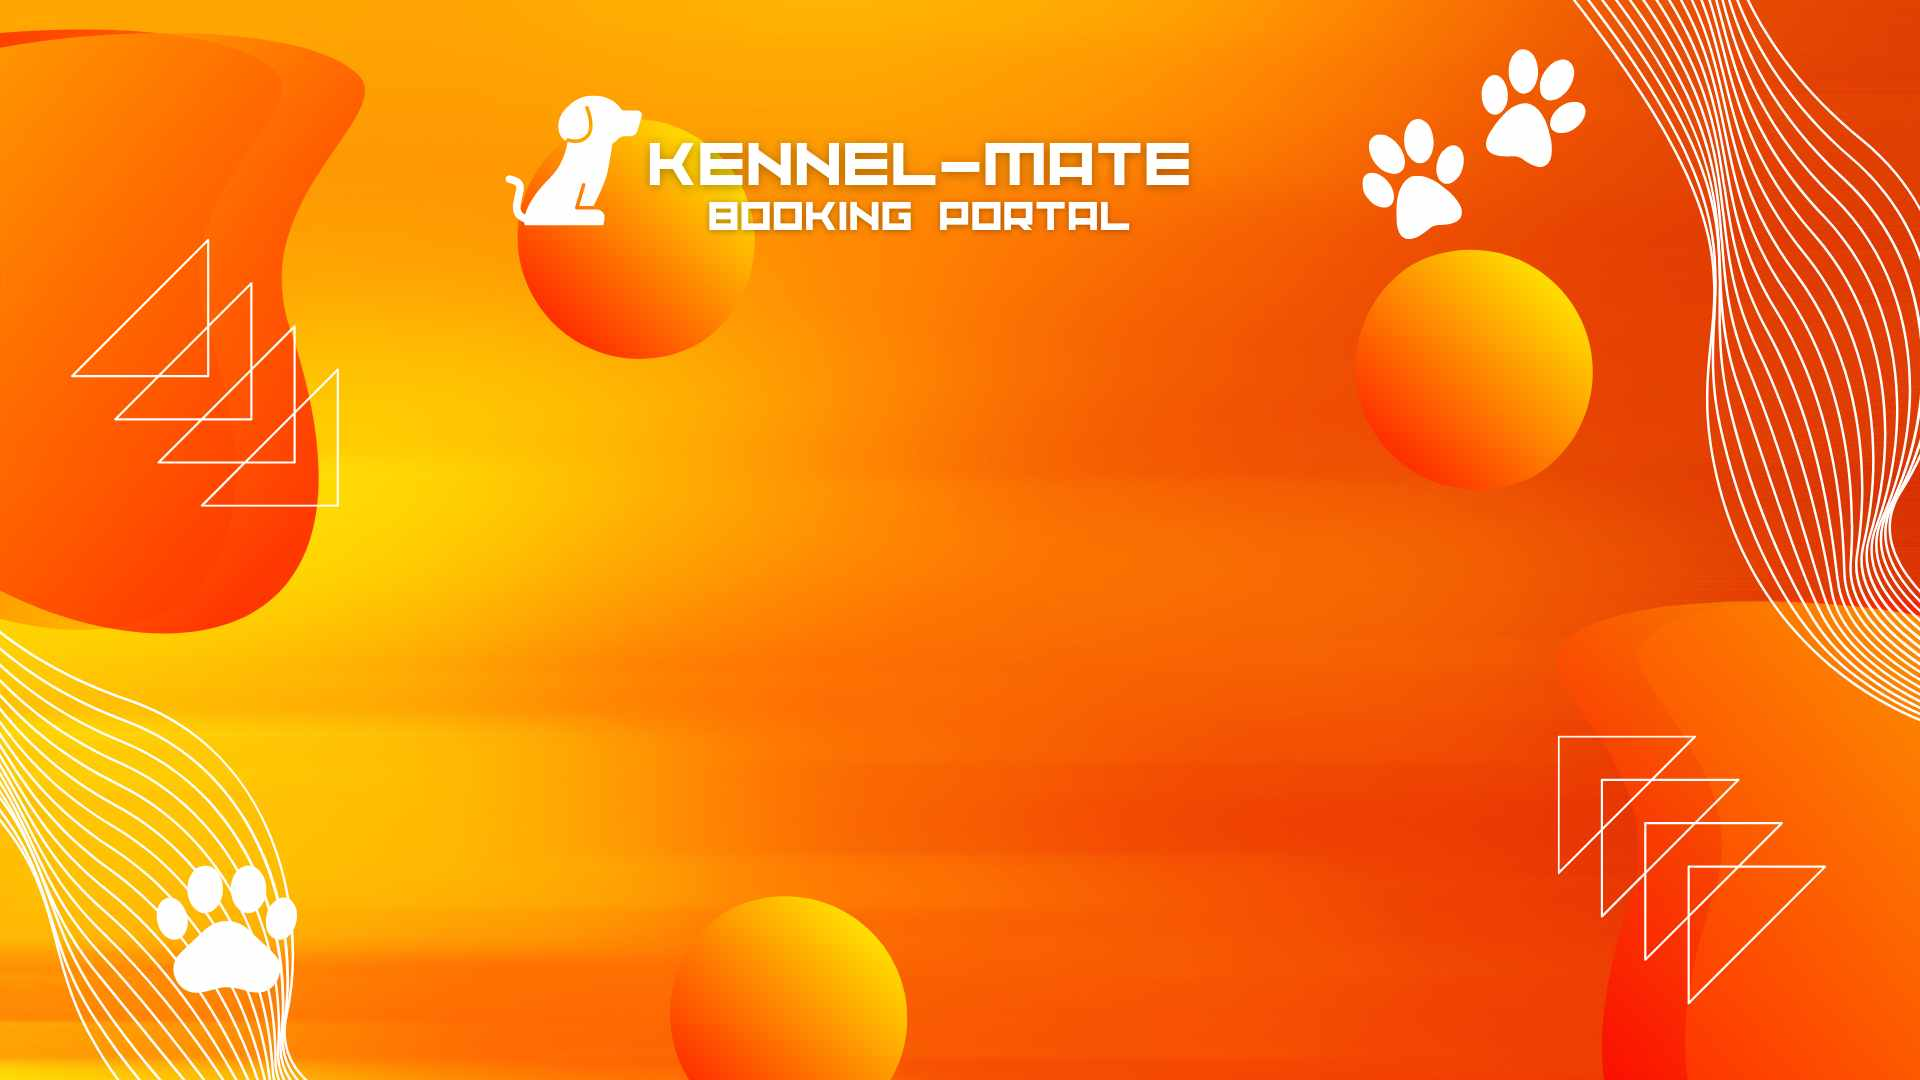
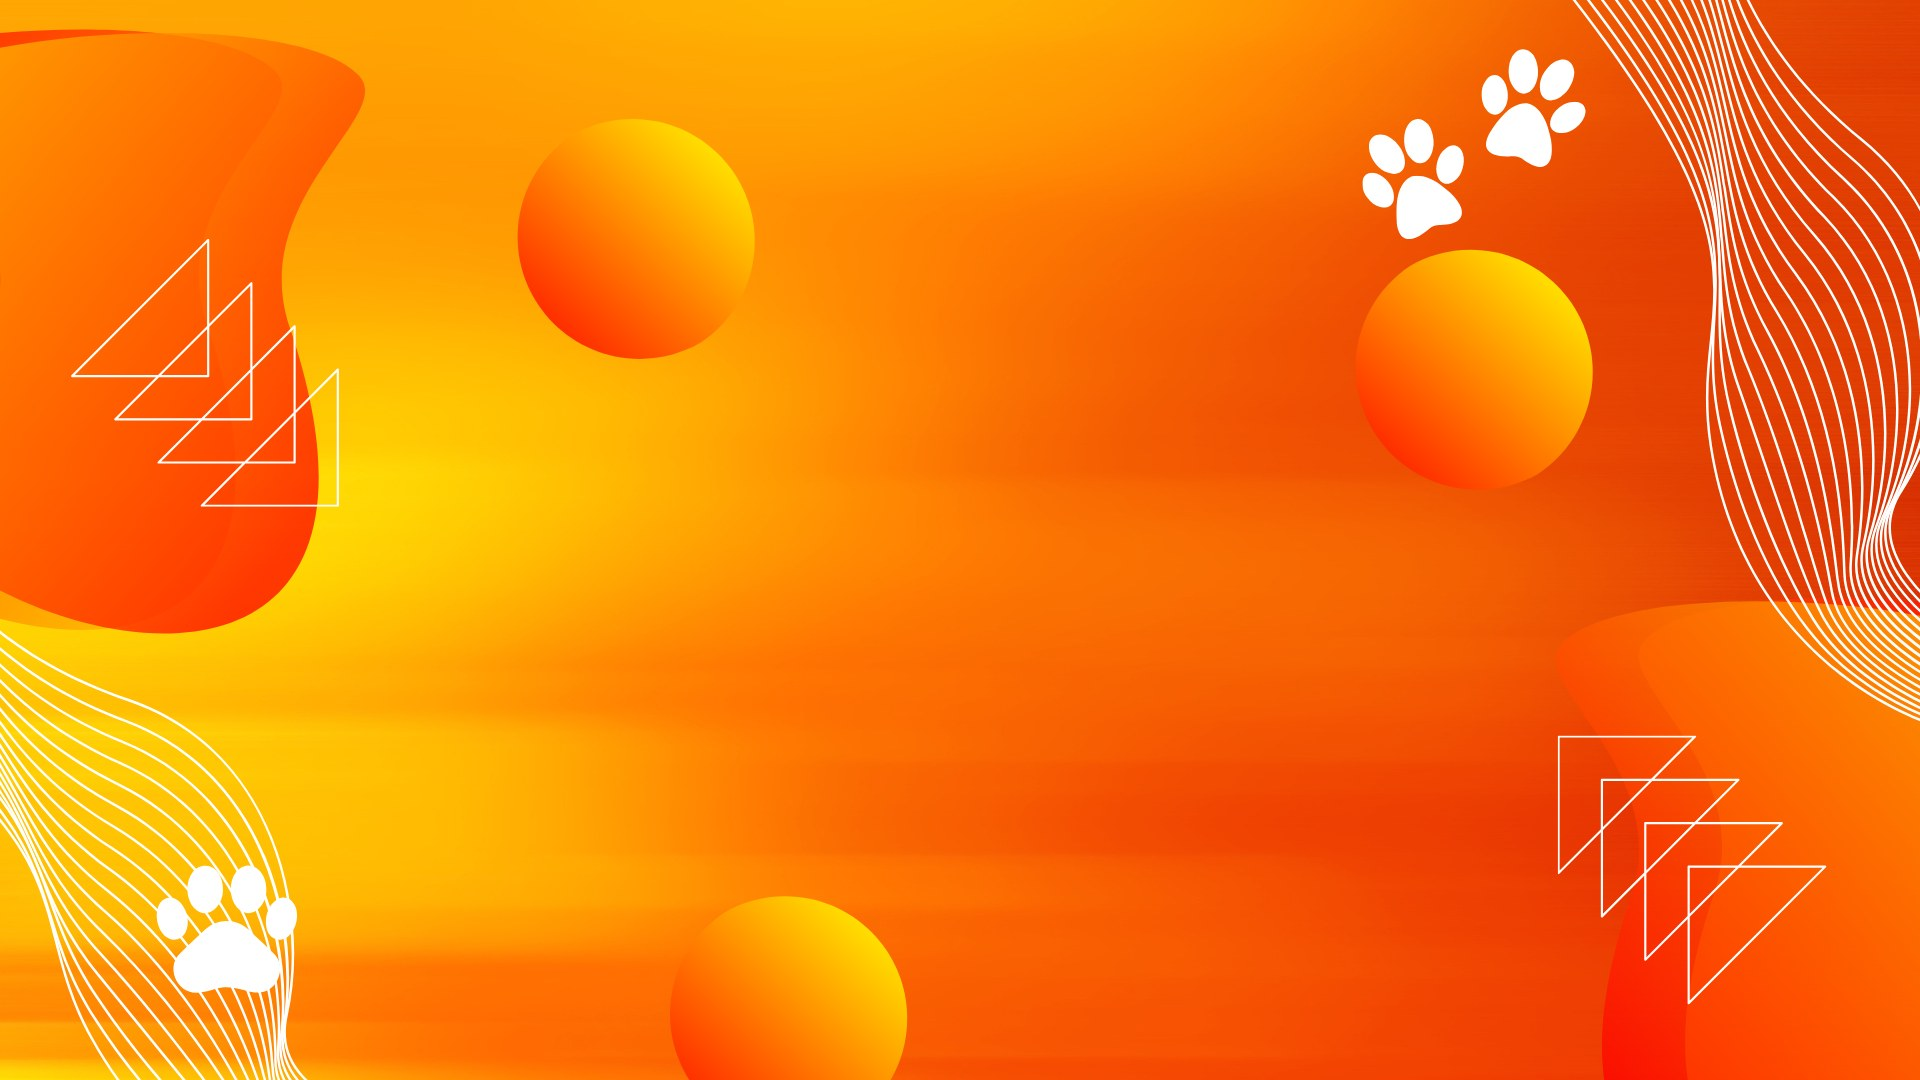
fix: background image, google fonts for h1 and h2

diff --git a/views/layout.html b/views/layout.html
@@ -8,6 +8,9 @@
     <script src="https://cdnjs.cloudflare.com/ajax/libs/jquery/3.1.1/jquery.min.js"></script>
     <script src="https://cdnjs.cloudflare.com/ajax/libs/xterm/3.14.5/xterm.min.js"></script>
     <script src="https://cdnjs.cloudflare.com/ajax/libs/xterm/3.14.5/addons/attach/attach.js"></script>
+    <link rel="preconnect" href="https://fonts.googleapis.com">
+    <link rel="preconnect" href="https://fonts.gstatic.com" crossorigin>
+    <link href="https://fonts.googleapis.com/css2?family=Geo&display=swap" rel="stylesheet">
     <title>Kennel-Mate</title>
     <style>
         body {
@@ -25,6 +28,12 @@
             height: 100vh;
             background-image: url(https://raw.githubusercontent.com/rstan-dev/P3-Kennel-Mate/main/assets/images/kennel_mate_bg.jpg);
             background-size: cover;
+        }
+
+        #bg_container h1,
+        #bg_container h3 {
+            font-family: 'Geo', sans-serif;
+            ;
         }
 
         /**
@@ -187,6 +196,8 @@
 
 <body>
     <main id="bg_container">
+        <h1>KENNEL-MATE</h1>
+        <h3>BOOKING PORTAL</h3>
         @{body}
     </main>
 </body>
